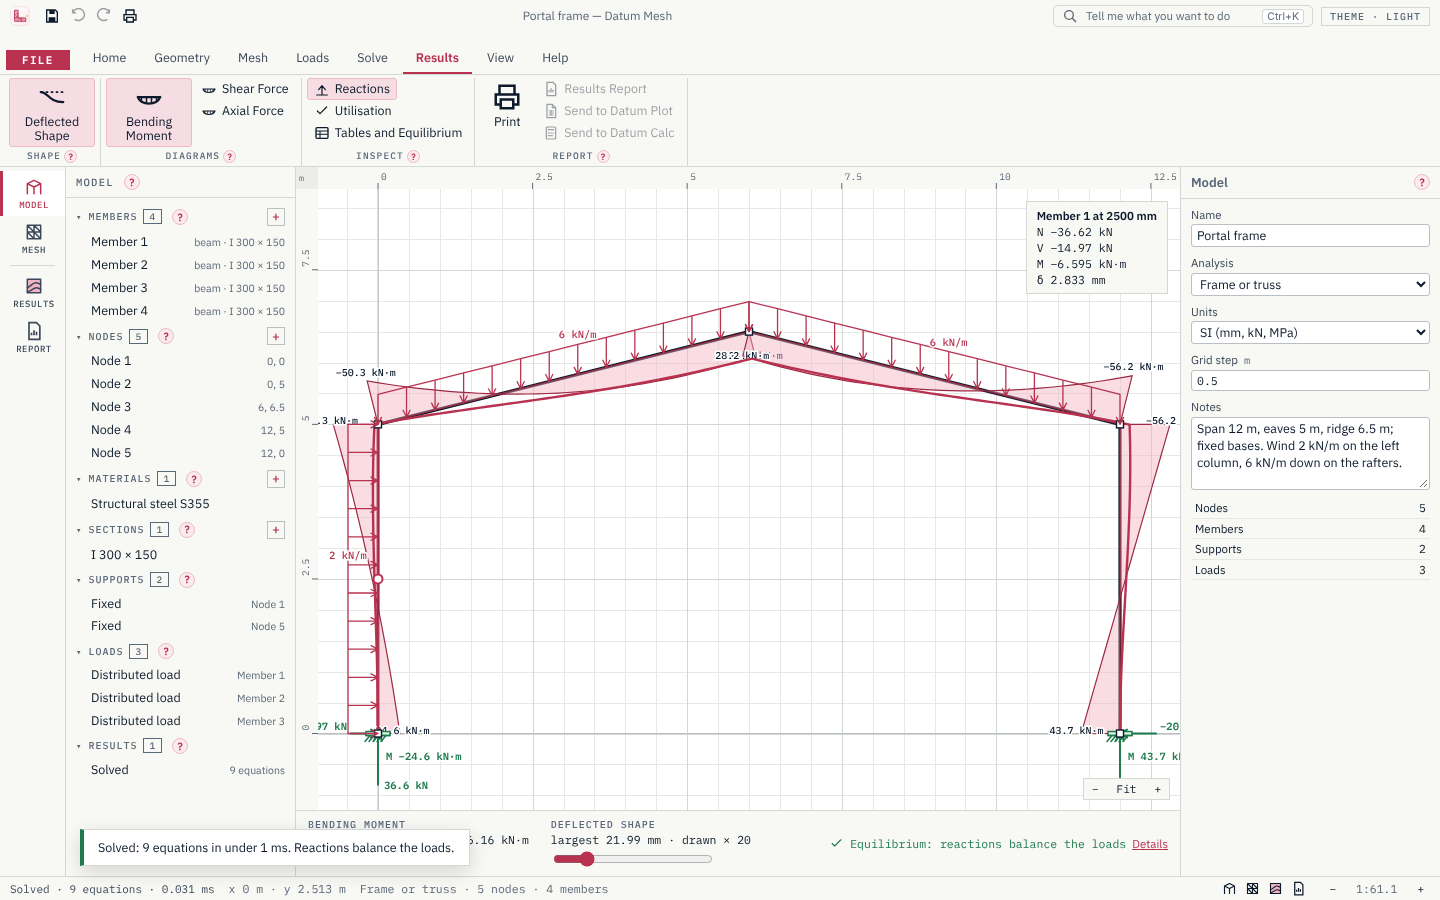
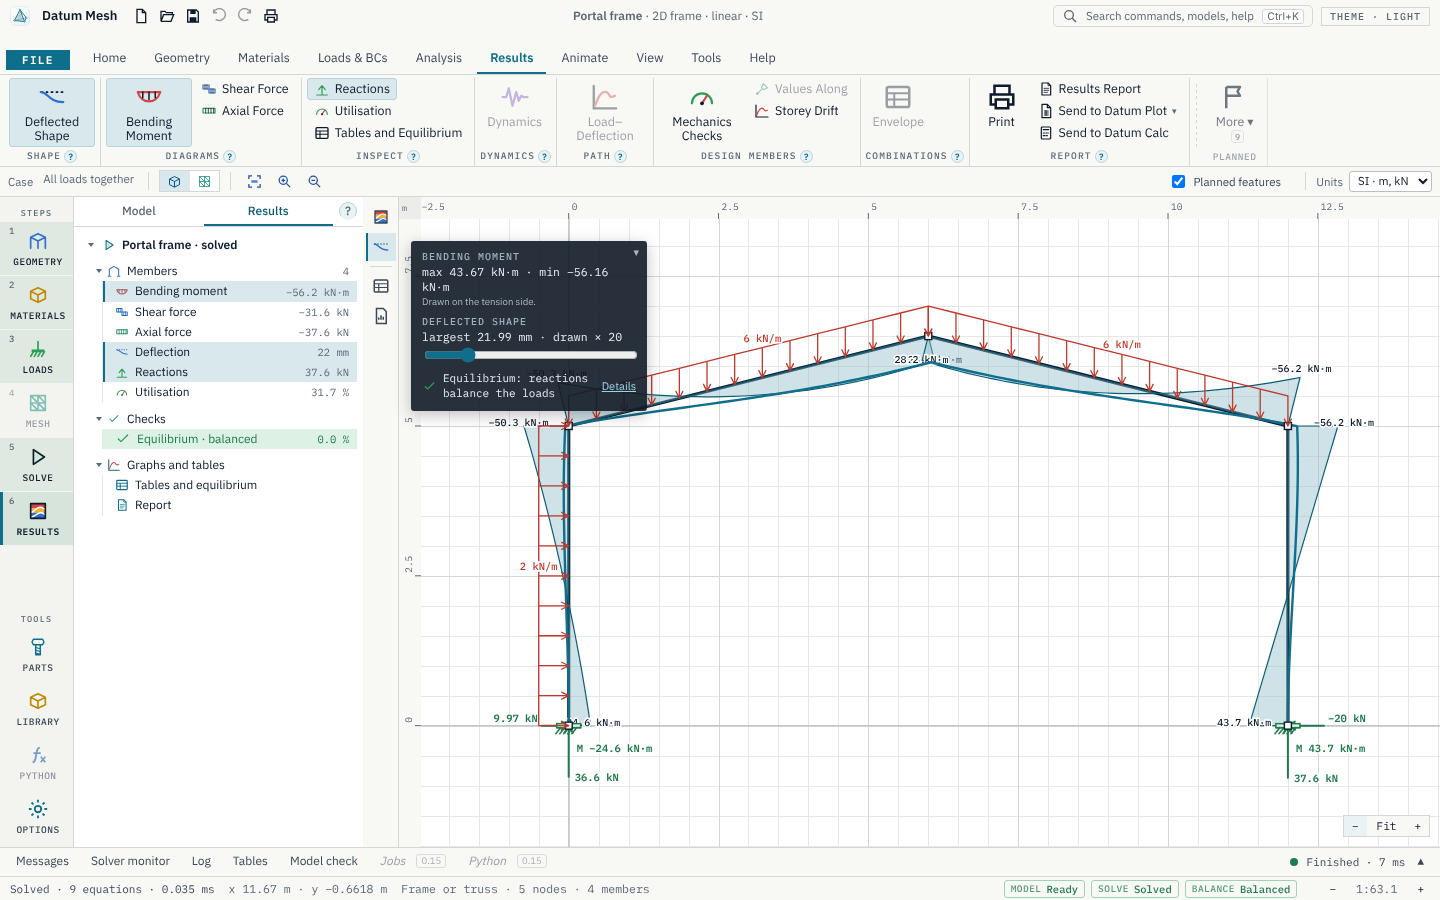
README and site pictures retaken from the 0.10.10 window
Claude-Session: https://claude.ai/code/session_015XbkM8meHueWuhmUN612nD

diff --git a/docs/MEMORY.md b/docs/MEMORY.md
@@ -585,6 +585,8 @@ From 0.7.0 `release.yml` builds `app/` (the version is read from `app/Cargo.toml
 
 - **CI kept short (2026-11-12, the user: GitHub Free only, no long runs).** The re-run of `check` on c1fe207 hung in apt during Ubuntu's mirror outage from 14:29 to 16:52 UTC and then failed; not a usage limit and not the code (every other job passed). ci.yml: timeouts on every job and on apt and Playwright steps, apt retries, concurrency cancel-in-progress, paths-ignore for docs/*.md/NOTICE, macOS only weekly and on workflow_dispatch.
 
+- **README pictures (2026-11-12, the user).** docs/images bracket-solved, portal-solved, fin-solved and verification retaken from the 0.10.10 window (the built window with the engine fixture, 1440×900, animation card closed); they were from 0.1.x. Used by README and site.json `screens`.
+
 ## 5. Known limits (0.10.1)
 - Everything dimmed in the window is planned, not built: its dialog shows what it will ask, and nothing in it runs.
 - Recent models on File › Home show the app's mark, not a picture of the model (the recent list keeps a name, a path and a date).
